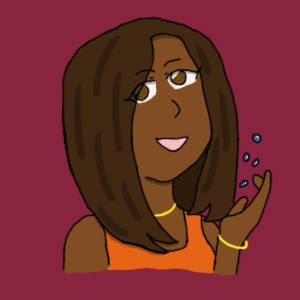
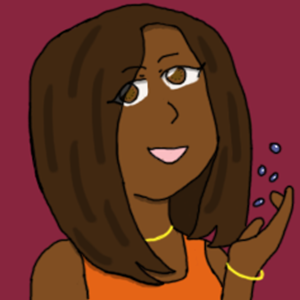
added full suite of cartoon images

diff --git a/main.py b/main.py
@@ -508,8 +508,8 @@ class Seeds(object):
         hand.id = "user_hand"
         hand.source = "assets/img/user-hand-01.png"
         hand.pos_fixed = GameScreen.HANDS[USER]['pos']
-        hand.spot_fixed = (300, 300)
-        hand.size_fixed = (600, 600)
+        hand.spot_fixed = (300, 1500-128)
+        hand.size_fixed = (600, 1500)
         display.game_screen_root.add_widget(hand)
         self.user_hand = hand
         hand = Image()
